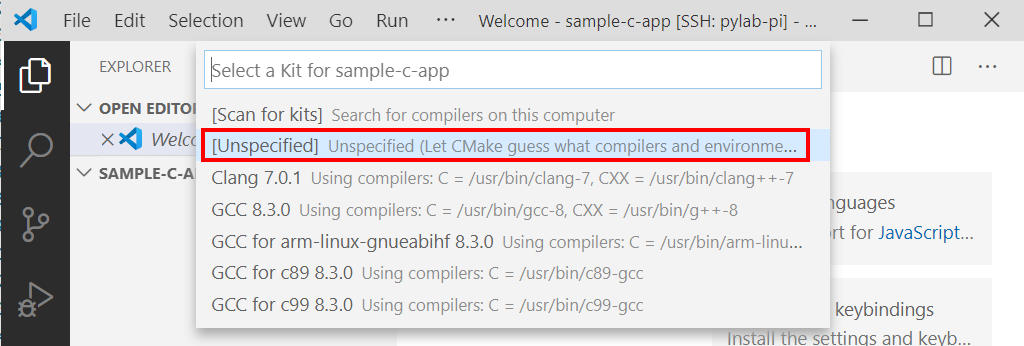
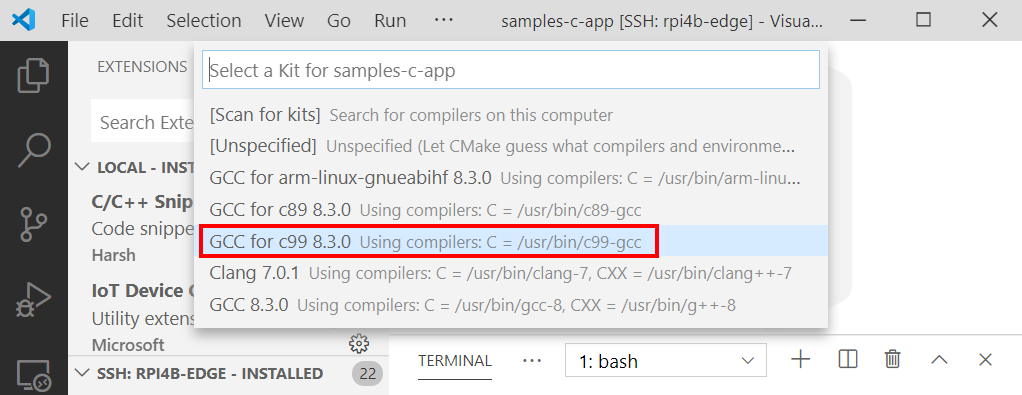
doco

diff --git a/README.md b/README.md
@@ -173,7 +173,7 @@ You will be prompted for:
 
 2. Select **CMake: Quick Start**
 
-3. Select **Unspecified (Let CMake guess)** unless you have some specific requirements.
+3. Select **GCC for c99** unless you have some specific requirements.
 
     ![](resources/vs-code-cmake-select-kit.png)
 
@@ -386,10 +386,6 @@ See the sample-c-app project included with this tutorial.
 
 [Using C++ on Linux in VS Code](https://code.visualstudio.com/docs/cpp/config-linux)
 
-[How to overclock Raspberry Pi 4](https://magpi.raspberrypi.org/articles/how-to-overclock-raspberry-pi-4)
-
----
-
 <!-- ## Install Azure C SDK Dev Package
 
 [Use apt-get to create a C device client project on Ubuntu](https://github.com/Azure/azure-iot-sdk-c/blob/master/doc/ubuntu_apt-get_sample_setup.md)
@@ -412,12 +408,20 @@ sudo apt-get install -y azure-iot-sdk-c-dev
 
 ## MQTT C Client Installation
 
-[MQTT C Client for Posix and Windows](https://www.eclipse.org/paho/clients/c/)
-
-Install required openssl library header
-
-[“openssl/ssl.h: No such file or directory” during Installation of Git](https://stackoverflow.com/questions/17915098/openssl-ssl-h-no-such-file-or-directory-during-installation-of-git)
+MQTT install/make requires the openssl library header.
 
 ```bash
 sudo apt-get install libssl-dev
 ```
+
+### Install MQTT C client
+
+```bash
+git clone https://github.com/eclipse/paho.mqtt.c.git
+cd paho.mqtt.c
+sudo make install
+```
+
+
+[MQTT C Client for Posix and Windows](https://www.eclipse.org/paho/clients/c/)
+
